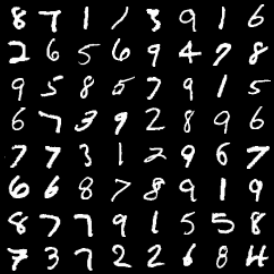
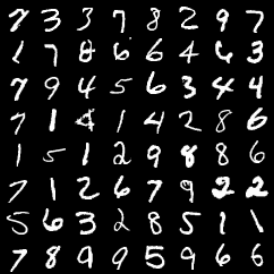
abandon lat loss

diff --git a/options.py b/options.py
@@ -19,21 +19,21 @@ class Options():
 
         ##
         # Base
-        self.parser.add_argument('--dataset', default='OCT', help='folder | cifar10 | mnist | OCT')
+        self.parser.add_argument('--dataset', default='mnist', help='folder | cifar10 | mnist | OCT')
         self.parser.add_argument('--dataroot', default='', help='path to dataset')        
         self.parser.add_argument('--path', default='', help='path to the folder or image to be predicted.')
-        self.parser.add_argument('--batchsize', type=int, default=2, help='input batch size')
+        self.parser.add_argument('--batchsize', type=int, default=64, help='input batch size')
         self.parser.add_argument('--split', type=int, default=1, help='number of forward pass before backprop')
         self.parser.add_argument('--workers', type=int, help='number of data loading workers', default=8)
         self.parser.add_argument('--droplast', action='store_true', default=True, help='Drop last batch size.')
-        self.parser.add_argument('--isize', type=int, default=512, help='input image size.')
+        self.parser.add_argument('--isize', type=int, default=32, help='input image size.')
         self.parser.add_argument('--nc', type=int, default=1, help='input image channels')
         self.parser.add_argument('--nz', type=int, default=128, help='size of the latent z vector')
         self.parser.add_argument('--ngf', type=int, default=64)
         self.parser.add_argument('--ndf', type=int, default=64)
         self.parser.add_argument('--extralayers', type=int, default=0, help='Number of extra layers on gen and disc')
         self.parser.add_argument('--device', type=str, default='gpu', help='Device: gpu | cpu')
-        self.parser.add_argument('--gpu_ids', type=str, default='0', help='gpu ids: e.g. 0  0,1,2, 0,2. use -1 for CPU')
+        self.parser.add_argument('--gpu_ids', type=str, default='-1', help='gpu ids: e.g. 0  0,1,2, 0,2. use -1 for CPU')
         self.parser.add_argument('--ngpu', type=int, default=1, help='number of GPUs to use')
         self.parser.add_argument('--name', type=str, default='exp1', help='name of the experiment')
         self.parser.add_argument('--model', type=str, default='abnomalGAN', help='chooses which model to use. ganomaly')

diff --git a/models/model.py b/models/model.py
@@ -136,7 +136,7 @@ class ANB:
                 err_d_real = self.l_adv(pred_real, label_real)
 
                 err_d_fakes = []
-                err_d_lats = []
+                # err_d_lats = []
 
                 for _idxG in range(self.opt.n_MC_Gen):
                     # self.net_Gs[_idxG].zero_grad()
@@ -150,7 +150,7 @@ class ANB:
                     # err_d_lats.append(err_d_lat)
 
                 err_d_total_loss = torch.zeros([1, ], dtype=torch.float32).to(self.device)
-                for err_d_fake, err_d_lat in zip(err_d_fakes, err_d_lats):
+                for err_d_fake in err_d_fakes:
                     err_d_loss = err_d_fake + err_d_real
                     err_d_total_loss += err_d_loss
 
